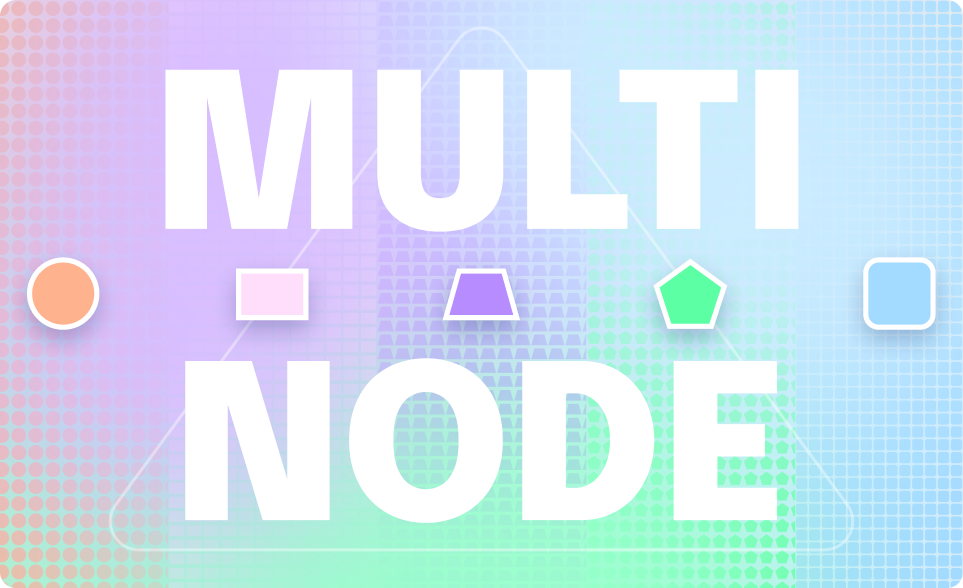
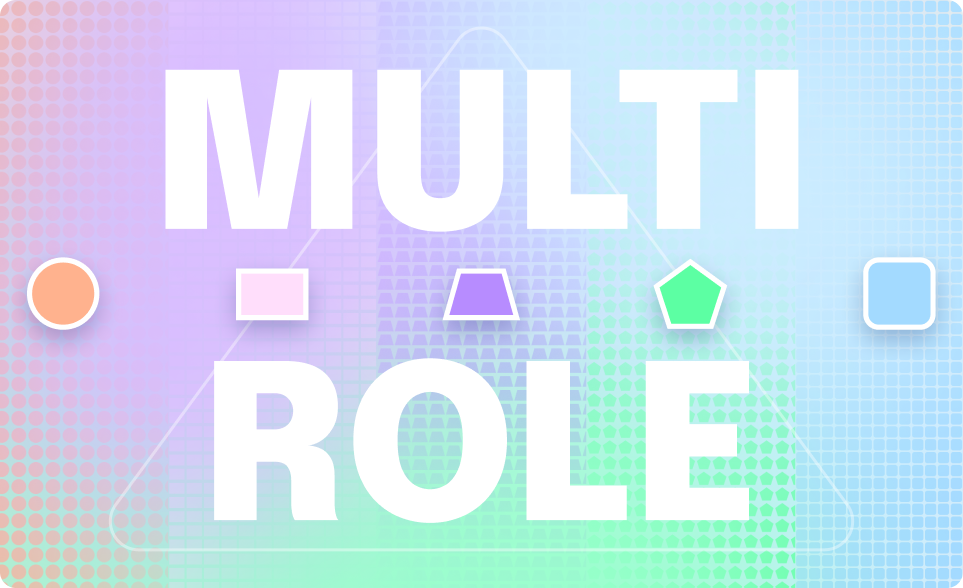
replacing multi-node with multi-role (#844)

diff --git a/docs/networks/network-architecture/index.md b/docs/networks/network-architecture/index.md
@@ -3,12 +3,18 @@ title: Flow's Network Architecture
 sidebar_position: 1
 ---
 
-Flow has pioneered a new paradigm of multi-node architecture that solves the core problem of today’s blockchains.
+Flow has pioneered a new paradigm of multi-role architecture that solves the core problem of today’s blockchains.
 The result is a scalable, decentralized, and secure network which ensures user safety and long-term sustainability.
 
-To better understand the architecture, lets first understand the problems with the current blockchain. Then lets look at how Flow multi-node architecture solves these problems.
+<div style={{textAlign:'center'}}>
 
-# What are the biggest problems solved by Flow's Multi-node Architecture?
+![flow_gif](images/flow_node_types_1.gif)
+
+</div>
+
+To better understand the architecture, lets first understand the problems with the current blockchain. Then lets look at how Flow multi-role architecture solves these problems.
+
+# What are the biggest problems solved by Flow's Multi-role Architecture?
 
 ## 1. The blockchain trilemma
 
@@ -26,7 +32,7 @@ Most blockchains, regardless of the number of participating nodes, inherently di
 ## 3. Energy inefficient and unsustainable
 It is well established that Proof-of-Work chains like Bitcoin consume massive amounts of energy, require perpetual hardware upgrades for the miners to stay competitive, and are therefore extremely harmful to the environment. A Proof-of-Stake chain’s environmental impact is less severe, but as web3 applications achieve mainstream adoption, every node in these chains will have to provide more and more hardware resources to meet the increasing throughput demand and the ever growing on-chain state. Vertically scaling the nodes implies higher energy consumption and environmental footprint.
 
-## Multi-node Architecture on Flow
+## Multi-role Architecture on Flow
 
 ![banner](./images/banner.png)
 
@@ -47,8 +53,6 @@ This division of labor between nodes occurs within the different validation stag
 In other words, every Flow node still participates in the validation of every transaction, but they do so only at one of the stages of validation.
 They can therefore specialize—and greatly increase the efficiency—for their particular stage of focus.
 
-![scenario_1](images/flow_node_types_1.gif)
-
 ### Flow node types and what they do
 
 |                                          |   Node type    | Responsibility                                                                                                                              | What do the nodes of this type do?                                                                                                                              |
@@ -60,9 +64,9 @@ They can therefore specialize—and greatly increase the efficiency—for their 
 | ![access](images/access.png)             |     Access     | Access Nodes route transactions into the network and replicate (parts of) the state and transaction results for external clients to query.  | Access node serve the API calls to send and read data from the chain.                                                                                           |
 
 ### Further reading
-1. [Primer on multi-node architecture](https://flow.com/primer#primer-multinode)
+1. [Primer on multi-role architecture](https://flow.com/primer#primer-multinode)
 2. [Technical papers](https://flow.com/technical-paper)
 3. [Core protocol vision](https://flow.com/core-protocol-vision)
 4. [Medium article from Jan which deep dives into the Flow architecture](https://jan-bernatik.medium.com/introduction-to-flow-blockchain-7532977c8af8)
 
-In the next section, lets look at how Flow multi-node architecture solves those three big problems with blockchains.
+In the next section, lets look at how Flow multi-role architecture solves those three big problems with blockchains.

diff --git a/docs/networks/network-architecture/solving-blockchain-trilemma.md b/docs/networks/network-architecture/solving-blockchain-trilemma.md
@@ -8,7 +8,7 @@ sidebar_position: 2
 
 In a monolithic architecture, all nodes perform every task. As network usage grows, the transaction processing capacity of the individual nodes becomes a limiting factor, restricting the network’s throughput and latency. The amount of data that can be stored on-chain is limited since nodes have a finite storage capacity. The only way to scale monolithic blockchains is by increasing the capacity of each node by adding more CPU, memory, and storage (i.e. vertical scaling, an approach taken by Solana). However, this solution comes at the cost of decentralization. As nodes scale vertically, they become more expensive to run, and eventually, only a few operators can afford to run such high-performance, high-capacity nodes. Worse, energy consumption for every node in the network increases over time, making the chain environmentally unsustainable.
 
-Through its multi-node architecture, Flow implements a modular pipeline for processing transactions. This design allows the network to scale by tuning the level of decentralization at each specific step without sharding the state and fragmenting the network into smaller security zones.
+Through its multi-role architecture, Flow implements a modular pipeline for processing transactions. This design allows the network to scale by tuning the level of decentralization at each specific step without sharding the state and fragmenting the network into smaller security zones.
 
 The modular pipeline is composed of Collection, Consensus, Execution and Verification Nodes.
 
@@ -40,7 +40,7 @@ In contrast, when traditional Layer 1 blockchains add more nodes to increase dec
 
 > Flow’s architectural goals are to provide a throughput of at least 1M TPS, ingest at least ½ GB of transaction data per second and store and serve a very large state of one Patebyte and beyond.
 
-Thus, Flow’s multi-node architecture solves the blockchain trilemma:
+Thus, Flow’s multi-role architecture solves the blockchain trilemma:
 
 1. **Scalability**: Scale to thousands of times higher throughput and on-chain storage capacity.
 

diff --git a/docs/networks/network-architecture/user-safety.md b/docs/networks/network-architecture/user-safety.md
@@ -11,7 +11,7 @@ This makes the chain vulnerable to censorship and MEV attacks. This problem is e
 
 ![mev](images/mev_attack.png)
 
-Flow’s multi-node architecture provides censorship & MEV resistance by design:
+Flow’s multi-role architecture provides censorship & MEV resistance by design:
 - Transactions are randomly assigned to collection nodes for inclusion in collections and eventually in blocks. Each collection node only sees a subset of transactions.
 
 
